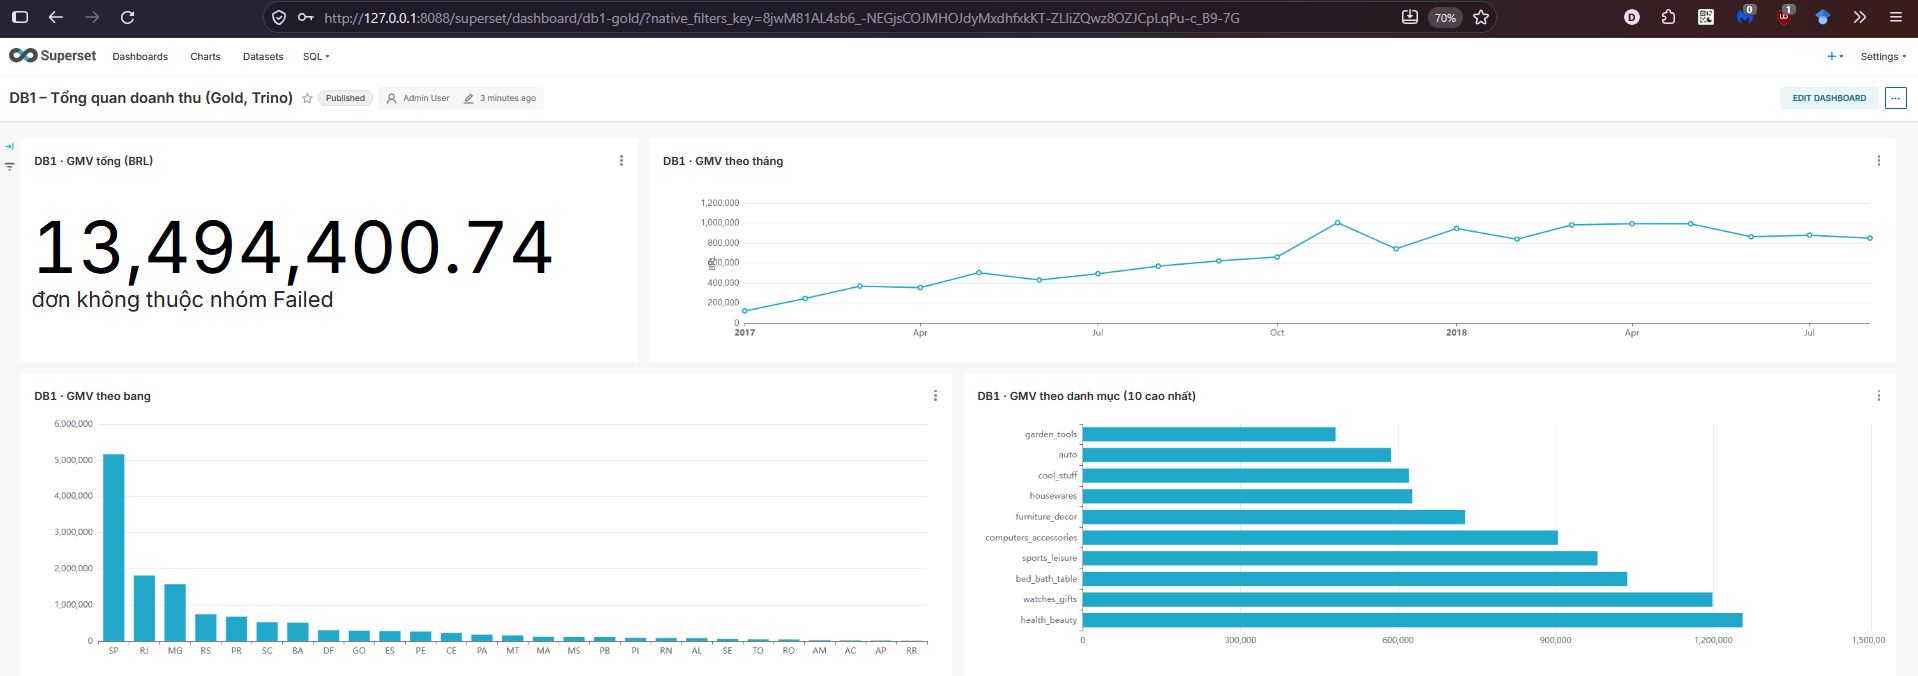
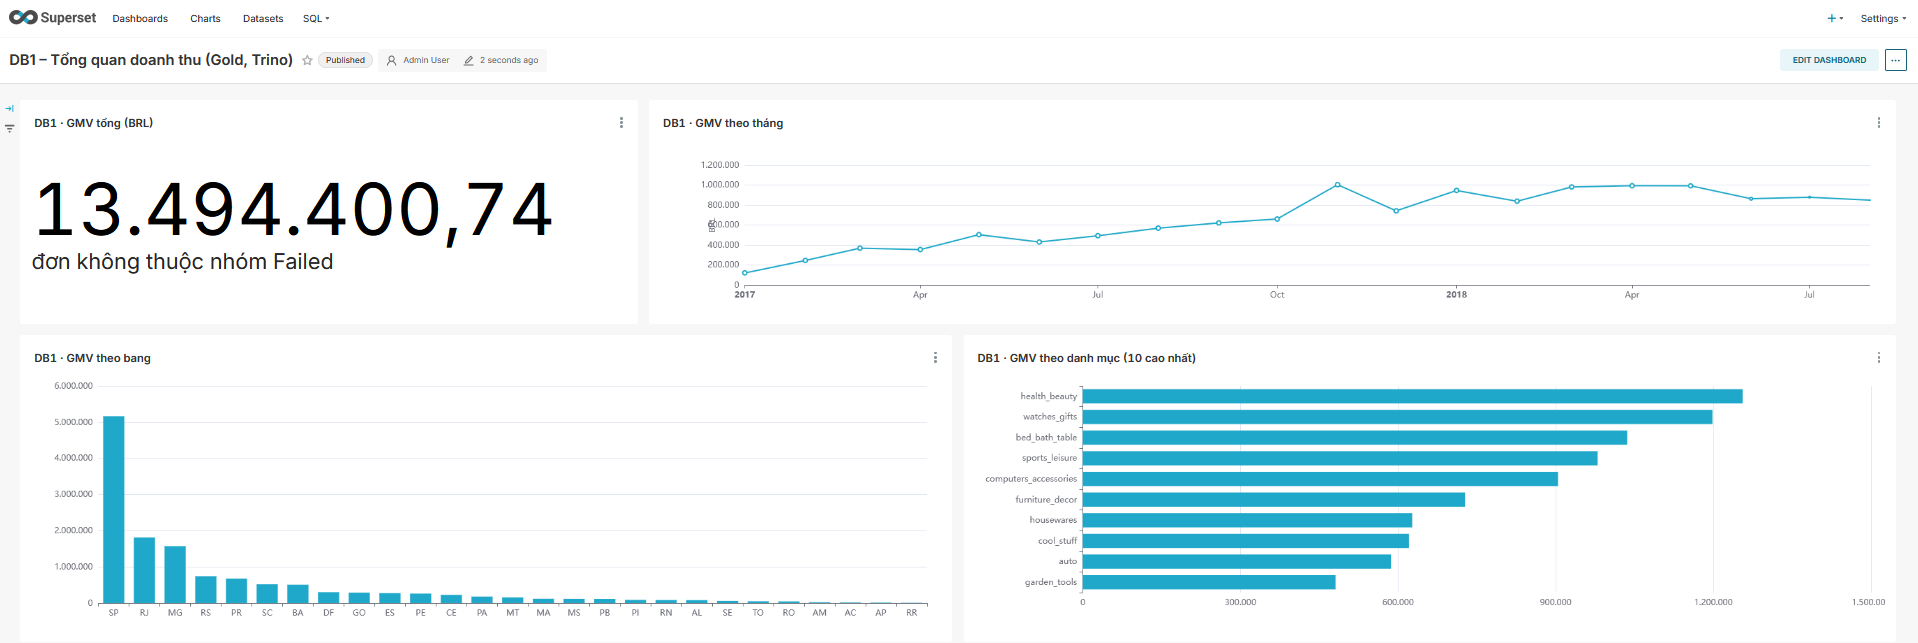
docs(slides): DB1 Superset screenshot after number format and category order fixes

diff --git a/handoff/2026-11-19-P10-lakehouse.md b/handoff/2026-11-19-P10-lakehouse.md
@@ -141,4 +141,4 @@ Chi tiết, số liệu và lý do ở `docs/LAKEHOUSE.md` mục 3.6 đến 3.9.
 
 ## Superset: chỉnh sau lần chụp đầu (21/11/2026)
 - Biểu đồ danh mục xếp giảm dần từ trên xuống (health_beauty ở trên cùng); định dạng số kiểu Việt Nam (`D3_FORMAT` trong `lakehouse/superset/superset_config.py`, ví dụ 13.494.400,74); MinIO nâng `mem_limit` lên 384m (đang dùng khoảng 286 MiB sau khi dựng dashboard).
-- Slide "DB1 trên Superset" dùng `figures/5-1_superset_db1_tc.png` (cắt từ `figures/human_takes/super set.png` bằng `cat_anh.py --box 0 130 1918 676`). Ảnh hiện có là bản **trước** hai chỉnh sửa trên; sau khi Phú chụp lại, chạy `python scripts/cat_anh.py "figures/human_takes/<ảnh mới>.png" figures/5-1_superset_db1_tc.png --box <trái trên phải dưới>` rồi `python scripts/sync_figures.py` và biên dịch lại slide.
+- Slide "DB1 trên Superset" dùng `figures/5-1_superset_db1_tc.png` (cắt từ `figures/human_takes/super set.png` bằng `cat_anh.py --box 0 130 1918 676`). Ảnh đã được Phú chụp lại sau hai chỉnh sửa trên (số 13.494.400,74, health_beauty ở trên cùng; cắt bằng `--box 0 90 1918 643`). Nếu cần chụp lại, chạy `python scripts/cat_anh.py "figures/human_takes/<ảnh mới>.png" figures/5-1_superset_db1_tc.png --box <trái trên phải dưới>` rồi `python scripts/sync_figures.py` và biên dịch lại slide.
